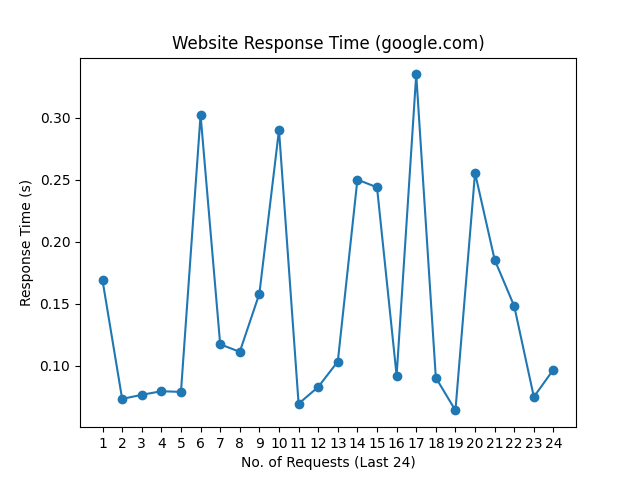
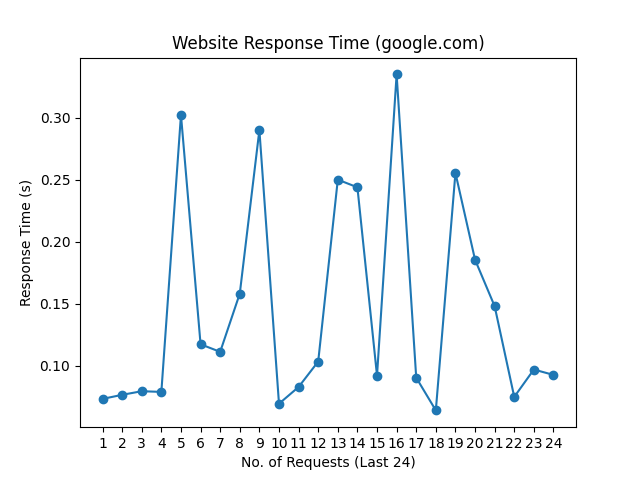
update README.md, history and graph

Changed region(s): [[0.1562, 0.125, 0.875, 0.875]]

diff --git a/README.md b/README.md
@@ -1,10 +1,10 @@
 # Web Monitoring
 
-Last Checked: 30/03/2025 08:23
+Last Checked: 31/03/2025 08:23
 
 | Website | Response Time (s) | Status | Avg Uptime (%) |
 |---------|-------------------|--------|----------------|
 | www.thiswebsiteisdown.net | 0 <br> <img src="graph/thiswebsiteisdown.net.png" alt="Graph" width="200" height="200">  | ❌ Down | 0.00 |
-| www.netflix.com | 0.812087 <br> <img src="graph/netflix.com.png" alt="Graph" width="200" height="200">  | ✅ Up | 99.67 |
-| www.google.com | 0.097023 <br> <img src="graph/google.com.png" alt="Graph" width="200" height="200">  | ✅ Up | 100.00 |
-| www.facebook.com | 1.037116 <br> <img src="graph/facebook.com.png" alt="Graph" width="200" height="200">  | ✅ Up | 100.00 |
+| www.netflix.com | 0.793715 <br> <img src="graph/netflix.com.png" alt="Graph" width="200" height="200">  | ✅ Up | 99.67 |
+| www.google.com | 0.092695 <br> <img src="graph/google.com.png" alt="Graph" width="200" height="200">  | ✅ Up | 100.00 |
+| www.facebook.com | 1.782894 <br> <img src="graph/facebook.com.png" alt="Graph" width="200" height="200">  | ✅ Up | 100.00 |
